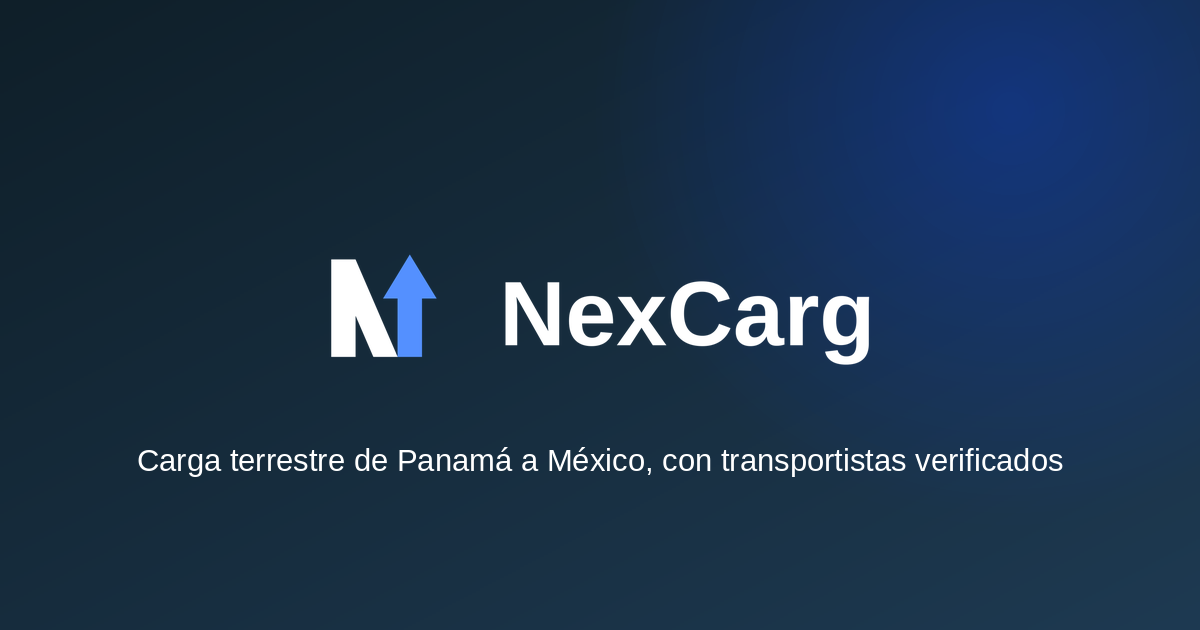
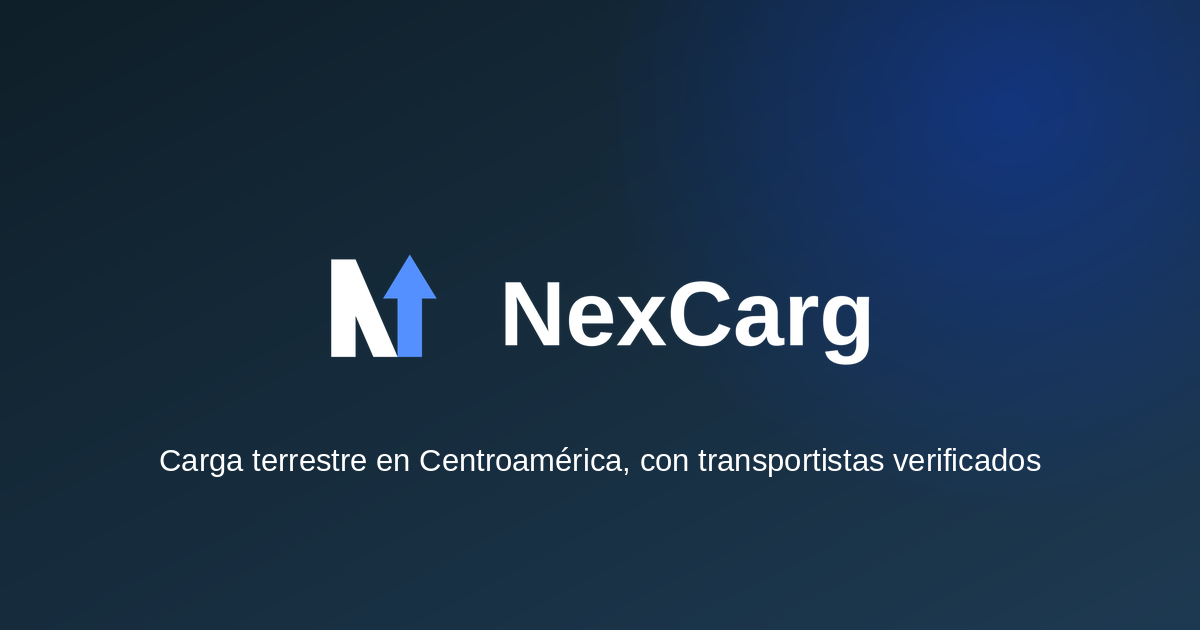
Drop Mexico: the corridor is the six Central American countries
Mexico closes cabotage to foreign carriers — a Central American truck cannot
deliver inside Mexican territory. The Mexican leg needs a federal transport
permit from the SICT, issued to companies incorporated in Mexico, plus a
federal driver's licence, Mexican insurance and the SAT's Carta Porte on
every trip.

While Mexico sat in the country list, the app happily quoted Panamá to Mexico
City door to door, which nobody could actually have fulfilled. Better to
promise six countries and deliver them.

Nothing to migrate: no user or load in the database referenced Mexico.

Serving Mexico later needs three things in order — verified Mexican carriers,
the border relay modelled as two legs with a handover proof, and the SAT
digital-platform tax registration. OPERACION.md records that, so the decision
does not read as an oversight to whoever picks this up next.

Claude-Session: https://claude.ai/code/session_01NWEHGzPUaUqJWmocS8RCKy

Changed region(s): [[0.1233, 0.6937, 0.8942, 0.754]]

diff --git a/web/index.html b/web/index.html
@@ -18,7 +18,7 @@
 
   <meta charset="UTF-8">
   <meta content="IE=Edge" http-equiv="X-UA-Compatible">
-  <meta name="description" content="NexCarg conecta empresas que necesitan mover mercancía con transportistas verificados de Panamá, Costa Rica, Nicaragua, Honduras, El Salvador, Guatemala y México. Contrato digital, pago en garantía, GPS en vivo y prueba de entrega.">
+  <meta name="description" content="NexCarg conecta empresas que necesitan mover mercancía con transportistas verificados de Panamá, Costa Rica, Nicaragua, Honduras, El Salvador y Guatemala. Contrato digital, pago en garantía, GPS en vivo y prueba de entrega.">
   <meta name="theme-color" content="#0F1F29">
 
   <!-- Tarjeta que se ve al compartir el enlace en WhatsApp, Facebook o LinkedIn.
@@ -27,13 +27,13 @@
   <meta property="og:site_name" content="NexCarg">
   <meta property="og:locale" content="es_HN">
   <meta property="og:url" content="https://nexcarg.com">
-  <meta property="og:title" content="NexCarg — Transporte de carga terrestre de Panamá a México">
+  <meta property="og:title" content="NexCarg — Transporte de carga terrestre en Centroamérica">
   <meta property="og:description" content="Publicá tu carga, recibí ofertas de transportistas verificados, firmá un contrato digital y pagá solo cuando la entrega esté probada.">
   <meta property="og:image" content="https://nexcarg.com/og.png">
   <meta property="og:image:width" content="1200">
   <meta property="og:image:height" content="630">
   <meta name="twitter:card" content="summary_large_image">
-  <meta name="twitter:title" content="NexCarg — Transporte de carga terrestre de Panamá a México">
+  <meta name="twitter:title" content="NexCarg — Transporte de carga terrestre en Centroamérica">
   <meta name="twitter:description" content="Publicá tu carga, recibí ofertas de transportistas verificados, firmá un contrato digital y pagá solo cuando la entrega esté probada.">
   <meta name="twitter:image" content="https://nexcarg.com/og.png">
 
@@ -46,7 +46,7 @@
   <!-- Favicon -->
   <link rel="icon" type="image/png" href="favicon.png"/>
 
-  <title>NexCarg — Transporte de carga terrestre de Panamá a México</title>
+  <title>NexCarg — Transporte de carga terrestre en Centroamérica</title>
   <link rel="manifest" href="manifest.json">
   <style>
     html, body { margin: 0; padding: 0; height: 100%; background: #0F1F29; }

diff --git a/lib/screens/landing/landing_screen.dart b/lib/screens/landing/landing_screen.dart
@@ -205,15 +205,15 @@ class _Texto extends StatelessWidget {
     return Column(crossAxisAlignment: CrossAxisAlignment.start, children: [
       // La lista completa de países se repite abajo en su propia
       // franja; en el teléfono ocupaba dos renglones acá arriba.
-      const Etiqueta(texto: 'De Panamá a México · 7 países'),
+      Etiqueta(texto: 'De Panamá a Guatemala · ${paises.length} países'),
       const SizedBox(height: 22),
       Text(
         // El corte de línea solo se fuerza en pantalla ancha: en el
         // teléfono el texto ya se acomoda solo y el salto le abría un
         // hueco raro en medio del titular.
         amplio
-            ? 'Tu carga, de Panamá\na México, con quien\npuedas verificar.'
-            : 'Tu carga, de Panamá a México, con quien puedas verificar.',
+            ? 'Tu carga por toda\nCentroamérica, con quien\npuedas verificar.'
+            : 'Tu carga por toda Centroamérica, con quien puedas verificar.',
         style: TextStyle(
           fontSize: amplio ? 44 : 31,
           height: 1.12,
@@ -352,7 +352,7 @@ class _PieDePagina extends StatelessWidget {
           ],
         ),
         const SizedBox(height: 16),
-        Text('© ${DateTime.now().year} NexCarg. Transporte de carga terrestre en el corredor Panamá–México.',
+        Text('© ${DateTime.now().year} NexCarg. Transporte de carga terrestre en el corredor centroamericano.',
             textAlign: TextAlign.center,
             style: TextStyle(fontSize: 11.5, color: Colors.white.withValues(alpha: 0.5), height: 1.4)),
       ]),

diff --git a/lib/screens/settings/legal_screen.dart b/lib/screens/settings/legal_screen.dart
@@ -11,7 +11,7 @@ class _Section {
 
 const _terminos = [
   _Section('1. Qué es NexCarg',
-      'NexCarg es una plataforma que conecta a clientes que necesitan transportar carga con transportistas independientes y empresas de transporte en el corredor Panamá–Costa Rica–Nicaragua–Honduras–El Salvador–Guatemala–México. NexCarg actúa como intermediario tecnológico: no es transportista ni propietario de la carga, y no se hace responsable por el transporte físico de la mercancía.'),
+      'NexCarg es una plataforma que conecta a clientes que necesitan transportar carga con transportistas independientes y empresas de transporte en el corredor Panamá–Costa Rica–Nicaragua–Honduras–El Salvador–Guatemala. NexCarg actúa como intermediario tecnológico: no es transportista ni propietario de la carga, y no se hace responsable por el transporte físico de la mercancía.'),
   _Section('2. Cuentas y verificación',
       'Para usar NexCarg debes registrarte con datos reales, incluyendo un documento de identidad y una selfie de verificación. Un administrador revisa manualmente estos documentos antes de habilitar todas las funciones de tu cuenta. Eres responsable de mantener la confidencialidad de tu contraseña y de toda actividad que ocurra en tu cuenta.'),
   _Section('3. Publicación y aceptación de cargas',

diff --git a/lib/data/constants.dart b/lib/data/constants.dart
@@ -1,7 +1,13 @@
 import 'package:flutter/material.dart';
 import '../models/models.dart';
 
-const List<String> paises = ['Panamá', 'Costa Rica', 'Nicaragua', 'Honduras', 'El Salvador', 'Guatemala', 'México'];
+// México queda fuera a propósito. Su cabotaje está cerrado a transportistas
+// extranjeros: un camión centroamericano no puede entregar dentro de México,
+// y el tramo mexicano exige permiso de la SICT, licencia federal, seguro
+// mexicano y Carta Porte del SAT. Dejarlo en la lista permitía cotizar
+// viajes que después nadie podía cumplir. Se atiende cuando haya
+// transportistas mexicanos verificados y el traspaso en frontera modelado.
+const List<String> paises = ['Panamá', 'Costa Rica', 'Nicaragua', 'Honduras', 'El Salvador', 'Guatemala'];
 
 final Map<String, int> paisIdx = {for (var i = 0; i < paises.length; i++) paises[i]: i};
 
@@ -12,7 +18,6 @@ const Map<String, List<String>> ciudades = {
   'Honduras': ['Tegucigalpa', 'San Pedro Sula', 'Puerto Cortés'],
   'El Salvador': ['San Salvador', 'Santa Ana', 'Acajutla'],
   'Guatemala': ['Ciudad de Guatemala', 'Puerto Barrios', 'Quetzaltenango'],
-  'México': ['Tapachula', 'Ciudad de México', 'Veracruz'],
 };
 
 const List<String> tiposCarga = [

diff --git a/lib/screens/auth/auth_screen.dart b/lib/screens/auth/auth_screen.dart
@@ -196,7 +196,7 @@ class _AuthScreenState extends State<AuthScreen> {
                             children: [
                               Image(image: AssetImage('assets/logo-blanco.png'), height: 34),
                               SizedBox(height: 10),
-                              Text('El transporte de carga terrestre de Panamá a México, en un solo lugar',
+                              Text('El transporte de carga terrestre de Centroamérica, en un solo lugar',
                                   textAlign: TextAlign.center, style: TextStyle(fontSize: 12, color: Color(0xA6FFFFFF))),
                             ],
                           ),

diff --git a/docs/correo/recuperar-contrasena.html b/docs/correo/recuperar-contrasena.html
@@ -13,7 +13,7 @@
           <td style="background:#0F1F29;padding:28px 24px;text-align:center;">
             <div style="font-size:24px;font-weight:bold;color:#FFFFFF;letter-spacing:-0.4px;">NexCarg</div>
             <div style="font-size:12px;color:rgba(255,255,255,0.65);margin-top:4px;">
-              El transporte de carga terrestre de Panamá a México, en un solo lugar
+              El transporte de carga terrestre de Centroamérica, en un solo lugar
             </div>
           </td>
         </tr>

diff --git a/README.md b/README.md
@@ -1,6 +1,6 @@
 # NexCarg
 
-Plataforma tecnológica que conecta empresas que necesitan transportar mercancías con transportistas y empresas de transporte, en el corredor Panamá–Costa Rica–Nicaragua–Honduras–El Salvador–Guatemala–México. App nativa para **iPhone, Android y Web** construida con **Flutter** (un solo código para las tres plataformas).
+Plataforma tecnológica que conecta empresas que necesitan transportar mercancías con transportistas y empresas de transporte, en el corredor Panamá–Costa Rica–Nicaragua–Honduras–El Salvador–Guatemala. App nativa para **iPhone, Android y Web** construida con **Flutter** (un solo código para las tres plataformas).
 
 Digitaliza la contratación de transporte terrestre: las empresas publican cargas, los transportistas las aceptan o cotizan, ambas partes firman un contrato digital, el pago queda en garantía (escrow) dentro de la plataforma y se libera automáticamente al confirmarse la entrega vía seguimiento GPS.
 
@@ -11,7 +11,7 @@ Digitaliza la contratación de transporte terrestre: las empresas publican carga
 - **Negociación**: aceptar al precio publicado o enviar/recibir cotizaciones por chat interno.
 - **Contrato digital**: se genera al asignar un viaje; ambas partes deben firmarlo antes de que el transportista pueda iniciar el trayecto.
 - **Pago en garantía (escrow)**: el monto se retiene y se libera al transportista, descontando la comisión de la plataforma, al confirmarse la entrega.
-- **Seguimiento GPS real** del transportista mientras la app está abierta, mostrado en un mapa en vivo (además del progreso estimado sobre el corredor Panamá–México).
+- **Seguimiento GPS real** del transportista mientras la app está abierta, mostrado en un mapa en vivo (además del progreso estimado sobre el corredor centroamericano).
 - **Calificaciones** mutuas entre cliente y transportista al finalizar cada viaje.
 - **Facturación** automática con desglose de comisión en cada viaje completado.
 - **Panel administrativo**: resumen de usuarios, viajes e ingresos por comisión, listado de usuarios y de todos los viajes.

diff --git a/OPERACION.md b/OPERACION.md
@@ -121,6 +121,36 @@ volver a correrlo salvo que se rehaga el proyecto de Supabase desde cero.
 decidir a mano quién la puede leer y agregarla a la política correspondiente.
 Por omisión, una carpeta nueva cae en "cualquier usuario con sesión".
 
+## Por qué México no está en la lista de países
+
+La plataforma cubre seis países: Panamá, Costa Rica, Nicaragua, Honduras, El
+Salvador y Guatemala. México **se sacó a propósito**, no es un olvido.
+
+México tiene el cabotaje cerrado a transportistas extranjeros: un camión
+centroamericano no puede entregar dentro de territorio mexicano. El tramo
+mexicano exige permiso de autotransporte federal de la SICT (que se otorga a
+empresas constituidas en México), Licencia Federal de Conductor, seguro
+mexicano y el complemento Carta Porte del SAT en cada viaje.
+
+Mientras México estuvo en la lista, la app dejaba cotizar viajes de Panamá a
+Ciudad de México que en la práctica nadie podía cumplir.
+
+**Para atenderlo algún día** hacen falta tres cosas, y en este orden:
+
+1. Transportistas mexicanos verificados en la plataforma, con su permiso de la
+   SICT al día.
+2. Modelar el **relevo en frontera**: el viaje se parte en dos tramos —uno
+   centroamericano hasta Tecún Umán o El Carmen, y uno mexicano hacia
+   adentro—, cada uno con su transportista, su contrato y la prueba de quién
+   tenía la carga en cada momento.
+3. Resolver el régimen de plataformas digitales del SAT: cobrar comisión a
+   usuarios mexicanos probablemente obliga a registrarse ante el SAT y cobrar
+   IVA. Eso es tema de contador, y va antes de tener el primer usuario
+   mexicano, no después.
+
+Nada de esto es consejo legal. Antes de invertir en la entrada a México hay que
+confirmarlo con un abogado aduanero mexicano.
+
 ## Tema claro y oscuro
 
 La app viene en los dos, y cada quien elige el suyo en **Más → Configuración**:

diff --git a/marca/LEEME.md b/marca/LEEME.md
@@ -4,7 +4,7 @@
 
 El asta izquierda y la diagonal forman la **N** de NexCarg. El trazo derecho no
 cierra la letra: **asciende y termina en punta de flecha**, porque el corredor
-que cubre la plataforma va de sur a norte, de Panamá hacia México.
+que cubre la plataforma va de sur a norte, de Panamá hacia Guatemala.
 
 ## Colores
 
